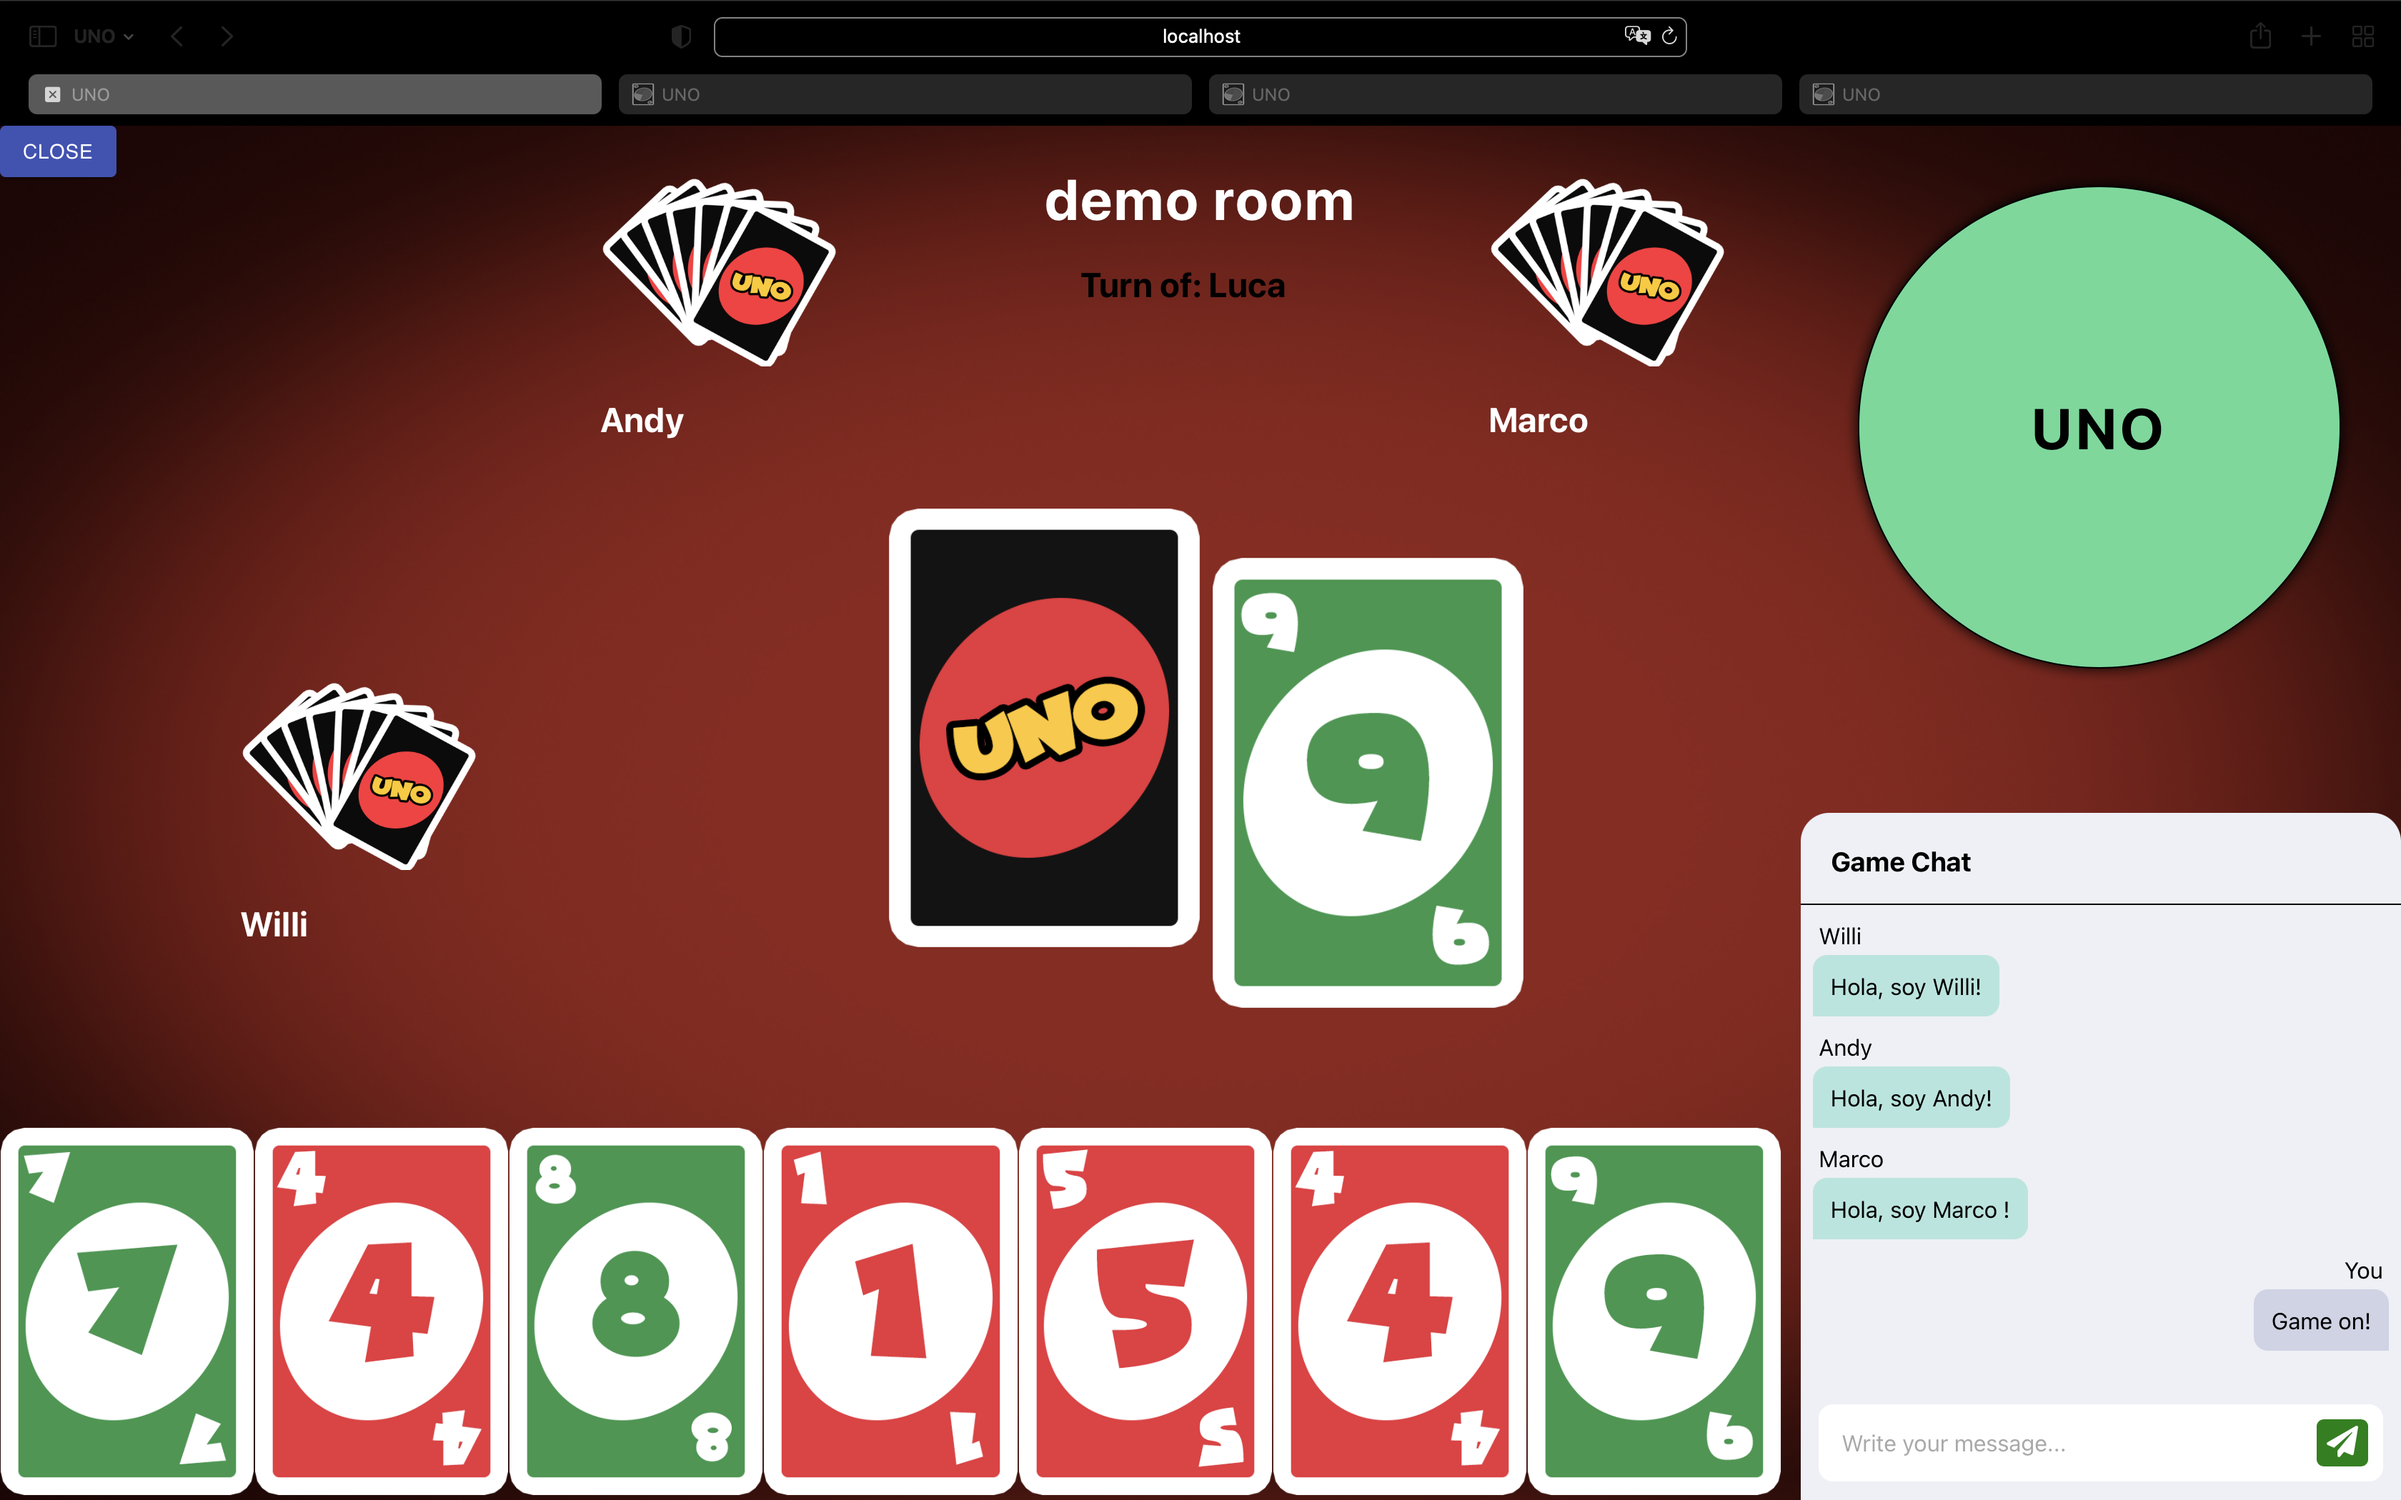
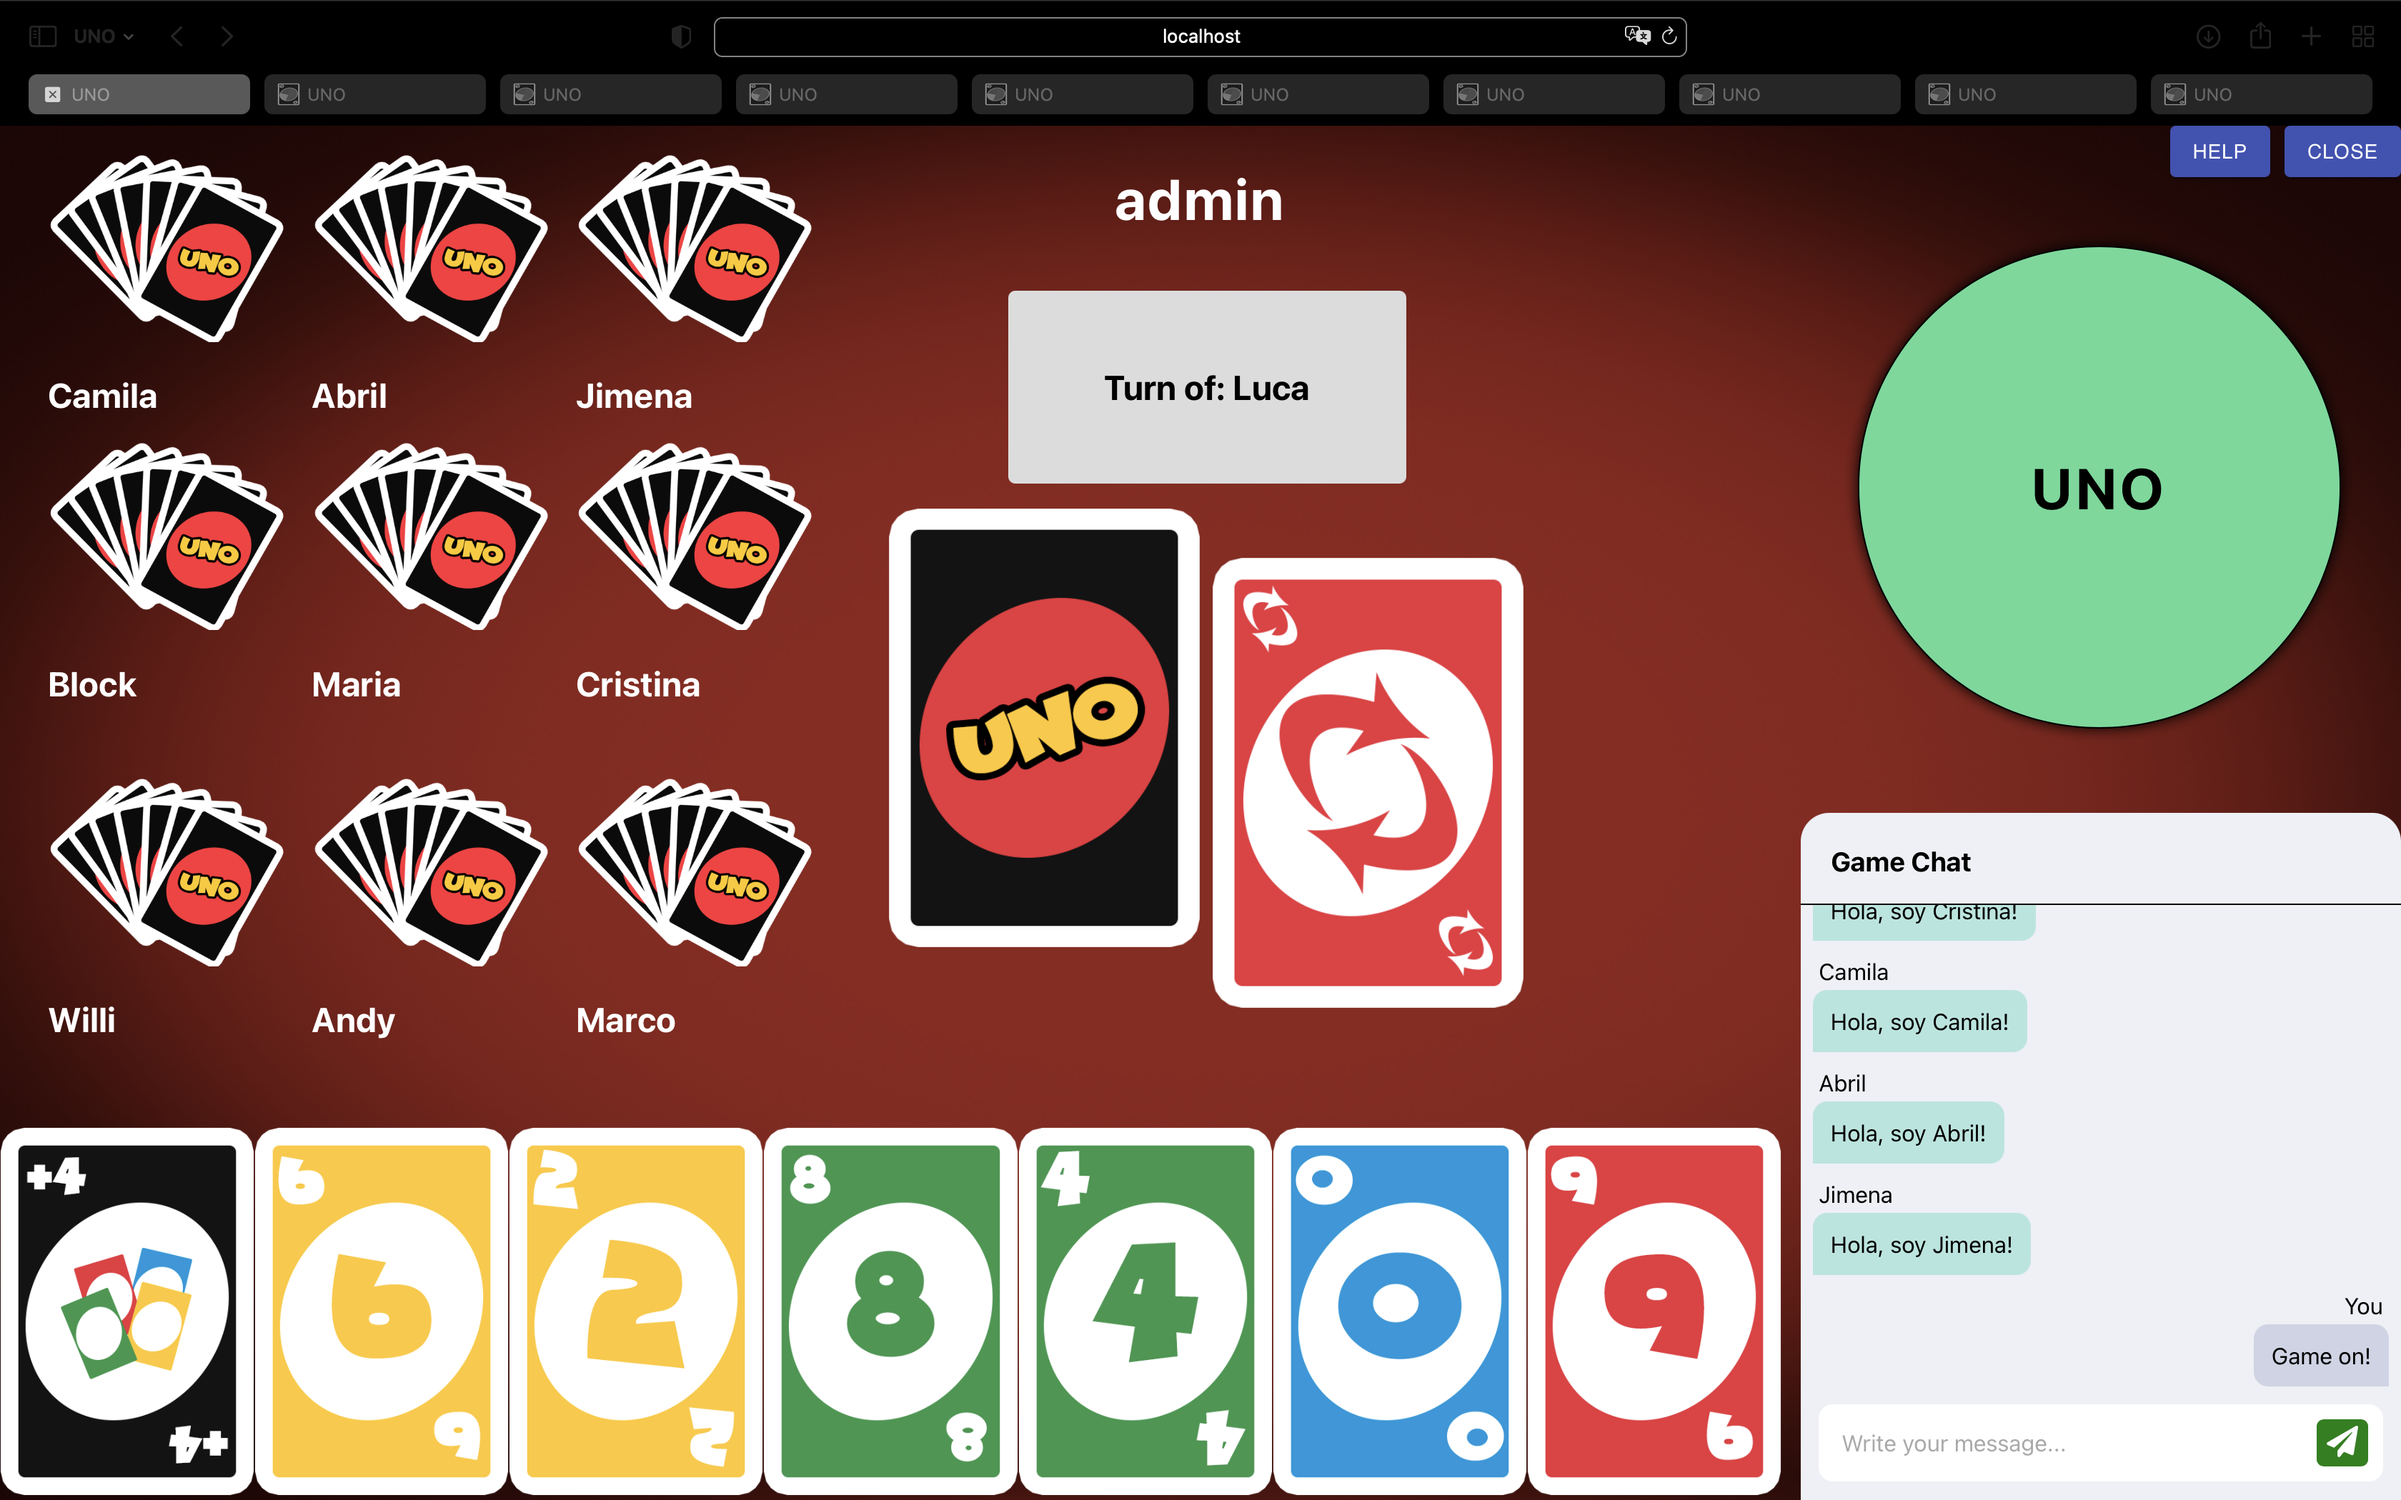
Readme

diff --git a/README.md b/README.md
@@ -4,6 +4,9 @@
     * [Game rules](#game-rules)
     * [Action cards](#action-cards)
 2. [How to play on the platform](#how-to-play-on-the-platform)
+3. [Cloning the repository](#cloning-the-repository)
+    * [Client](#client)
+    * [Server](#server)
 
 
 # UNO
@@ -53,7 +56,7 @@ Be the first to run out of cards.
     <img src="public/images/preview/signin.png" alt="Sign in page" width="650"/>
 </p>
 
-2. If you are the creator of the room you must wait for a minimum of 3 users to connect (maximum of 5 users) to start the game and only you can start it, the rest of the users will have a waiting window.
+2. If you are the creator of the room you must wait for a minimum of 3 users to connect (maximum of 10 users) to start the game and only you can start it, the rest of the users will have a waiting window.
 <p align="center">  
     <img src="public/images/preview/owner_wait.png" alt="Owner waiting room" width="650"/>
     <img src="public/images/preview/user_wait.png" alt="User waiting room" width="650"/>
@@ -69,4 +72,37 @@ Be the first to run out of cards.
     <img src="public/images/preview/dnd.gif" alt="Drag and drop" width="650"/>
 </p>
 
+5. You can know whose turn it is to play in the upper gray box. If it is your turn you will see your name bounce.
+<p align="center">  
+    <img src="public/images/preview/turn.gif" alt="It's your turn" width="650"/>
+</p> 
 
+6. When you have a card to change color and place it, you will have to select the color in a window that will appear.
+<p align="center">  
+    <img src="public/images/preview/change_color.gif" alt="Wild card" width="650"/>
+</p> 
+
+7. To know what color is being played, the background of the entire screen will change according to the color of the main card of the game.
+<p align="center">
+    <img src="public/images/preview/background_color.gif" alt="Color of background" width="650"/>
+</p> 
+
+8. You can use the chat at any time of the game to communicate with the rest of the connected users.
+<p align="center">  
+    <img src="public/images/preview/chat.gif" alt="Chat" width="650"/>
+</p> 
+
+
+# Cloning the repository
+## Client
+1. `git clone git@github.com:UVG-Teams/uno.git`
+2. `cd uno`
+3. `yarn install`
+4. `yarn start`
+
+## Server
+1. `git clone git@github.com:UVG-Teams/simple-websocket-server.git`
+    * [Server repository](https://github.com/UVG-Teams/simple-websocket-server)
+2. `cd simple-websocket-server`
+3. `yarn install`
+4. `node server.js`

diff --git a/src/helpme.md b/src/helpme.md
@@ -53,7 +53,7 @@ Be the first to run out of cards.
     <img src="./images/preview/signin.png" alt="Sign in page" width="650"/>
 </p>
 
-2. If you are the creator of the room you must wait for a minimum of 3 users to connect (maximum of 5 users) to start the game and only you can start it, the rest of the users will have a waiting window.
+2. If you are the creator of the room you must wait for a minimum of 3 users to connect (maximum of 10 users) to start the game and only you can start it, the rest of the users will have a waiting window.
 <p align="center">  
     <img src="./images/preview/owner_wait.png" alt="Owner waiting room" width="650"/>
     <img src="./images/preview/user_wait.png" alt="User waiting room" width="650"/>
@@ -68,5 +68,26 @@ Be the first to run out of cards.
 <p align="center">  
     <img src="./images/preview/dnd.gif" alt="Drag and drop" width="650"/>
 </p>
+
+5. You can know whose turn it is to play in the upper gray box. If it is your turn you will see your name bounce.
+<p align="center">  
+    <img src="./images/preview/turn.gif" alt="It's your turn" width="650"/>
+</p> 
+
+6. When you have a card to change color and place it, you will have to select the color in a window that will appear.
+<p align="center">  
+    <img src="./images/preview/change_color.gif" alt="Wild card" width="650"/>
+</p> 
+
+7. To know what color is being played, the background of the entire screen will change according to the color of the main card of the game.
+<p align="center">
+    <img src="./images/preview/background_color.gif" alt="Color of background" width="650"/>
+</p> 
+
+8. You can use the chat at any time of the game to communicate with the rest of the connected users.
+<p align="center">  
+    <img src="./images/preview/chat.gif" alt="Chat" width="650"/>
+</p> 
+
 
 
